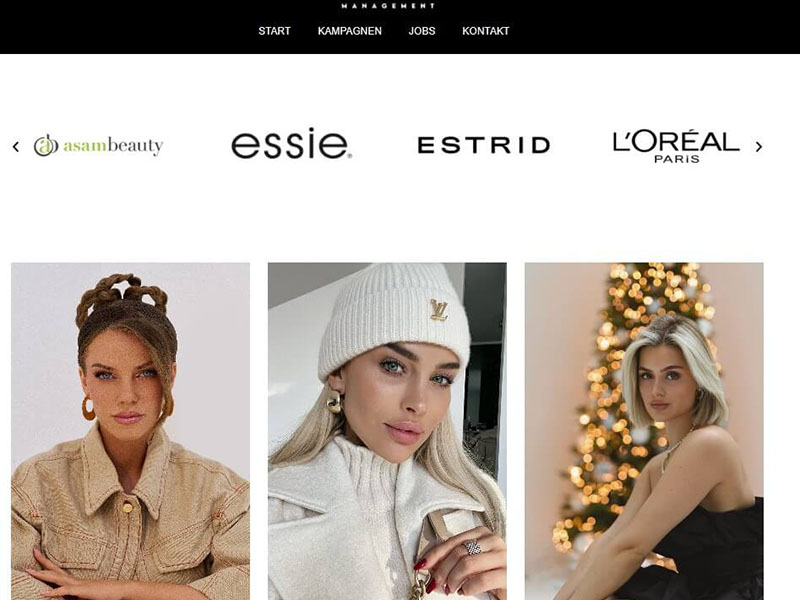
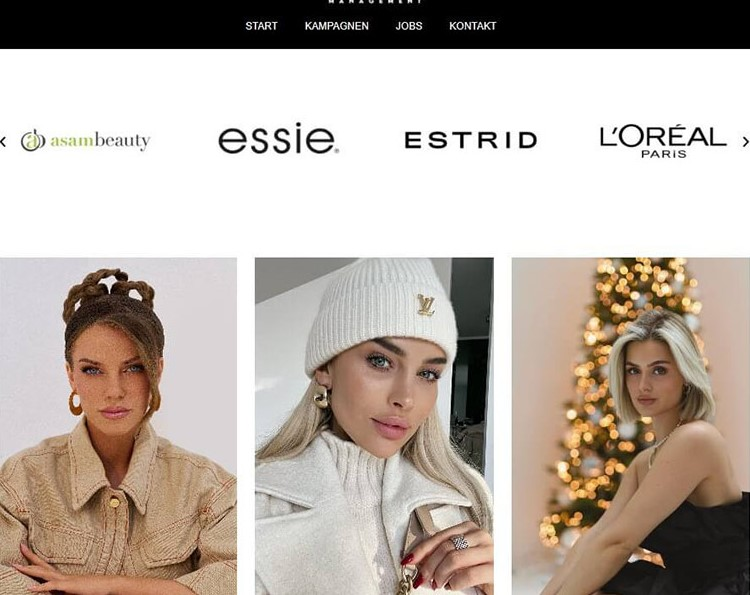
Final Save Point In Working Condition.

diff --git a/assets/css/main3.css b/assets/css/main3.css
@@ -2885,8 +2885,8 @@ input[type="button"].small,
 }
 
 .border_round {
-  border-radius: 10px;
-  box-shadow: 5px 5px 5px rgb(87, 51, 63);
+  border-radius: 5px;
+  /* box-shadow: 5px 5px 5px rgb(87, 51, 63); */
 }
 
 .image {
